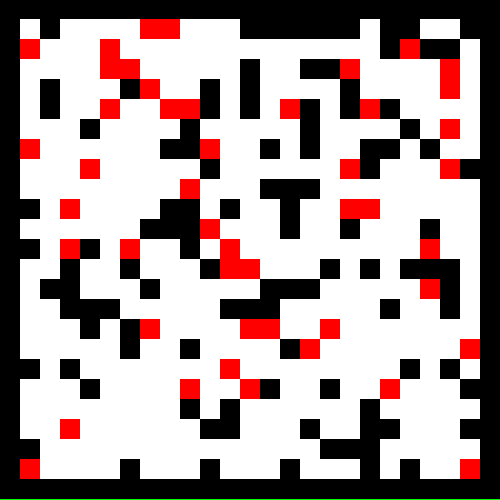
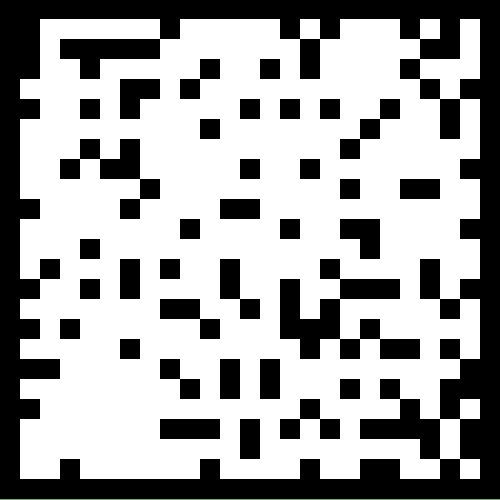
Tweak Dungeon Generation

diff --git a/Rule.java b/Rule.java
@@ -7,19 +7,37 @@ public class Rule {
     public static final int RULE_FAILED = -1;
 
     @SuppressWarnings("unchecked")
-    ArrayList<Type>[] andSet = new ArrayList[5]; //assumes highest priority rules have key value of 1, with lower priority having higher values such as 2, 3, etc
+    ArrayList<Type>[] andSet; //assumes highest priority rules have key value of 1, with lower priority having higher values such as 2, 3, etc
     @SuppressWarnings("unchecked")
-    ArrayList<Type>[] orSet = new ArrayList[5];
+    ArrayList<Type>[] orSet;
     private int result;
+    private int requiredType;
     public Rule(ArrayList<Type>[] andSet,  ArrayList<Type>[] orSet, int result){
         this.andSet = andSet;
         this.orSet = orSet;
         this.result = result;
+        this.requiredType = Cell.NO_TYPE;
+        if(this.andSet.length != this.orSet.length){
+            throw new Error("Initialized Arrays need to be the same length");
+        }
+    }
+
+    public Rule(ArrayList<Type>[] andSet,  ArrayList<Type>[] orSet, int result, int requiredType){
+        this.andSet = andSet;
+        this.orSet = orSet;
+        this.result = result;
+        this.requiredType = requiredType;
+        if(this.andSet.length != this.orSet.length){
+            throw new Error("Initialized Arrays need to be the same length");
+        }
     }
 
     public int applyRule(int[] relativeCells){
         System.out.println("Applying Rule");
-        Type currentCell;
+        if(requiredType != Cell.NO_TYPE && requiredType != relativeCells[4]){
+            return RULE_FAILED;
+        }
+        Type currentType;
         int solid = 0;
         int floor = 0;
         int empty = 0;
@@ -39,36 +57,40 @@ public class Rule {
                     break;
             }
         }
-        System.out.println("Solid:" + solid);
-        for(int priority = 0; priority < 5; priority++){
+        System.out.println("Empty:" + empty);
+        for(int priority = 0; priority < andSet.length; priority++){
             if(andSet[priority] != null){
                 for(int i = 0; i < andSet[priority].size(); i++){
 
-                    currentCell = andSet[priority].get(i);
-                    if(currentCell instanceof TypeCount){
-                        switch(((TypeCount) currentCell).getType()){
+                    currentType = andSet[priority].get(i);
+                    if(currentType instanceof TypeCount){
+                        switch(((TypeCount) currentType).getType()){
                             case Cell.SOLID:
-                                if(!((TypeCount) currentCell).compare(solid)){
+                                System.out.println("CASE SOLID");
+                                if(!((TypeCount) currentType).compare(solid)){
                                     return RULE_FAILED;
                                 }
                             break;
                             case Cell.FLOOR:
-                                if(!((TypeCount) currentCell).compare(floor)){
+                                System.out.println("CASE FLOOR");
+                                if(!((TypeCount) currentType).compare(floor)){
                                     return RULE_FAILED;
                                 }
                             break;
                             case Cell.EMPTY:
-                                if(!((TypeCount) currentCell).compare(empty)){
+                                System.out.println("CASE EMPTY");
+                                if(!((TypeCount) currentType).compare(empty)){
                                     return RULE_FAILED;
                                 }
+                                
                             break;
                         }
                     }
                     
                 
                     else{
-                        if((relativeCells[((TypePosition) currentCell).getPosition()] == currentCell.getType() && currentCell.notBooleanIsTrue())
-                            || (relativeCells[((TypePosition) currentCell).getPosition()] != currentCell.getType() && !currentCell.notBooleanIsTrue())){
+                        if((relativeCells[((TypePosition) currentType).getPosition()] == currentType.getType() && currentType.notBooleanIsTrue())
+                            || (relativeCells[((TypePosition) currentType).getPosition()] != currentType.getType() && !currentType.notBooleanIsTrue())){
                             return RULE_FAILED;
                         }
                     }
@@ -78,21 +100,21 @@ public class Rule {
                 Outerloop:
                 for(int i = 0; i < orSet[priority].size(); i++){
 
-                    currentCell = orSet[priority].get(i);
-                    if(currentCell instanceof TypeCount){
-                        switch(((TypeCount) currentCell).getType()){
+                    currentType = orSet[priority].get(i);
+                    if(currentType instanceof TypeCount){
+                        switch(((TypeCount) currentType).getType()){
                             case Cell.SOLID:
-                                if(!((TypeCount) currentCell).compare(solid)){
+                                if(!((TypeCount) currentType).compare(solid)){
                                     break Outerloop;
                                 }
                             break;
                             case Cell.FLOOR:
-                                if(!((TypeCount) currentCell).compare(floor)){
+                                if(!((TypeCount) currentType).compare(floor)){
                                     break Outerloop;
                                 }
                             break;
                             case Cell.EMPTY:
-                                if(!((TypeCount) currentCell).compare(empty)){
+                                if(!((TypeCount) currentType).compare(empty)){
                                     break Outerloop;
                                 }   
                             break;
@@ -100,8 +122,8 @@ public class Rule {
                     }
                 
                 
-                    else if((relativeCells[((TypePosition) currentCell).getPosition()] == currentCell.getType() && !currentCell.notBooleanIsTrue()) 
-                        || (relativeCells[((TypePosition) currentCell).getPosition()] != currentCell.getType() && currentCell.notBooleanIsTrue())){
+                    else if((relativeCells[((TypePosition) currentType).getPosition()] == currentType.getType() && !currentType.notBooleanIsTrue()) 
+                        || (relativeCells[((TypePosition) currentType).getPosition()] != currentType.getType() && currentType.notBooleanIsTrue())){
                         break Outerloop;
                     }
                     if(i == orSet[priority].size() - 1){

diff --git a/Automata.java b/Automata.java
@@ -48,7 +48,7 @@ public class Automata {
     }
 
     public void initialize(int solidChance, int floorChance, int emptyChance){
-        Random rand = new Random(2);
+        Random rand = new Random(3);
         for(int r = 0; r < previousCells.length; r++){
             for(int c = 0; c < previousCells[r].length; c++){
                 
@@ -132,13 +132,15 @@ public class Automata {
                 
             }
         }
-        if(name.equals("testingImg")){
-            System.out.println("Placing test square at previousCells (" + r + ", " + c + ") at image Location  (" + imgRow + "," + imgCol + ")");
-        Utility.DrawFilledRect(img, imgCol, imgRow, cellSize, cellSize, Color.GREEN);
-        }
-      //  Random rand = new Random(System.currentTimeMillis());
-      //  Utility.SaveImage(img, ".\\Images\\"+Integer.toString(rand.nextInt()) + ".png");
+        // if(name.equals("testingImg")){
+        //     System.out.println("Placing test square at previousCells (" + r + ", " + c + ") at image Location  (" + imgRow + "," + imgCol + ")");
+        // Utility.DrawFilledRect(img, imgCol, imgRow, cellSize, cellSize, Color.GREEN);
+        // }
+        Random rand = new Random(System.currentTimeMillis());
+        Utility.SaveImage(img, ".\\Images\\"+Integer.toString(rand.nextInt()) + ".png");
+
       Utility.SaveImage(img, ".\\Images\\" + name + ".png");
+      System.out.println("Finished");
     }
 
     

diff --git a/Runner.java b/Runner.java
@@ -18,13 +18,25 @@ public class Runner {
             orSet[i] = new ArrayList<Type>();
         }
         ArrayList<Rule> rules = new ArrayList<>();
-        TypeCount rule1 = new TypeCount(Cell.SOLID, 5, ">=");
+        TypeCount rule1 = new TypeCount(Cell.SOLID, 4, ">=");
+        TypeCount rule2 = new TypeCount(Cell.EMPTY, 8, ">=");
         andSet[0].add(rule1);
+      //  andSet[1].add(rule2);
         Rule rule = new Rule(andSet, orSet, Cell.SOLID);
+
+        ArrayList<Type>[] andSet2 = new ArrayList[5];
+        ArrayList<Type>[] orSet2 = new ArrayList[5];
+        for(int i = 0; i < 5; i++){
+            andSet2[i] = new ArrayList<Type>();
+        }
+        andSet2[0].add(rule2);
+        
+        Rule rules2 = new Rule(andSet2, orSet2, Cell.EMPTY);
         rules.add(rule);
+        rules.add(rules2);
         Automata firstTest = new Automata(img.getWidth(), img.getHeight(), 20, rules);
-        firstTest.initialize(1, 1, 8);
-        firstTest.evaluateAutomata(4);
+        firstTest.initialize(2, 0, 8);
+        firstTest.evaluateAutomata(5);
        // firstTest.applyEvaluationToImage();
        // Utility.SaveImage(img, ".\\Images\\Testing123.png");
     

diff --git a/TypeCount.java b/TypeCount.java
@@ -12,6 +12,8 @@ public class TypeCount extends Type {
     }
 
     public boolean compare(int val){
+
+       //System.out.println("Is " + val + " " + booleanOp + " " + this.count + "?");
         if (booleanOp.equals("==")) {
             return val == this.count;
         } else if (booleanOp.equals("<")) {

diff --git a/Cell.java b/Cell.java
@@ -6,6 +6,7 @@ public class Cell {
     public static final int SOLID = 0;
     public static final int FLOOR = 1;
     public static final int EMPTY = 2;
+    public static final int NO_TYPE = 4;
 
     private int type;
     private boolean modified = false;
